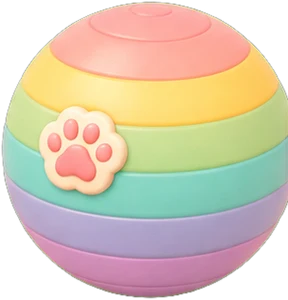
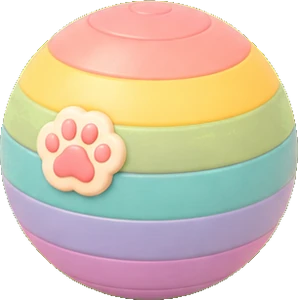
溜滑梯、帳篷小屋、彩虹大球、獨角獸、垃圾堆重新去背（不再被切到）
Claude-Session: https://claude.ai/code/session_012PDdvi2k8upU5bkQdz1Zi2

diff --git a/index.html b/index.html
@@ -3331,6 +3331,8 @@ const ITEMS={
   cushion:{name:'軟墊',emo:'🟣',kind:'toy',price:80},
 };
 const TREAT_MAX=3,TOY_MAX=20;
+// v2.87：重新去背的圖（原本被切到），加版本號讓手機重抓
+setTimeout(()=>['slide','teepee','rainbowball','unicorn','trash'].forEach(k=>{if(ITEMS[k]&&!ITEMS[k].img)ITEMS[k].img=`assets/item_${k}.webp?v=2`}),0);
 
 // ---------- v1.48 新玩具 ----------
 Object.assign(ITEMS,{
@@ -6578,7 +6580,7 @@ function announceLetters(){if(!DB.me)return;let seen=[];try{seen=JSON.parse(loca
     sfx('gift');$('#lgopen').onclick=()=>openLetter(nw[0].id,()=>$('#bell').click())};
   setTimeout(go,1800)}
 // ================= 自動更新：發現新版本就重新載入 =================
-const APP_VER='v2.86';
+const APP_VER='v2.87';
 function checkUpdate(){
   if(!/^https?:/.test(location.protocol)||!API_URL)return;
   if(!$('#modal').classList.contains('hidden'))return; // 正在填表單時不打斷

diff --git a/CLAUDE.md b/CLAUDE.md
@@ -31,8 +31,9 @@
 - commit 訊息結尾加 Co-Authored-By 與 Claude-Session 行；不要在 commit / PR 寫模型名稱。
 
 ## 目前狀態（2026-11）
-- 前端 v2.86、後端 v72（都已上線，2026-11-25）。
-- v2.86：盲盒店預覽圖沒載到時自動重抓（`imgRetry`，最多 2 次，還不行就藏起來不顯示破圖）。陽光小鎮圖檔本身是好的。另外有 7 個玩具圖檔本身被切到（地瓜乾、寵物布丁、貓掌沙發、溜滑梯、帳篷小屋、彩虹大球、獨角獸搖搖馬），等島主給原圖重新去背。
+- 前端 v2.87、後端 v72（都已上線，2026-11-25）。
+- v2.87：溜滑梯、帳篷小屋、彩虹大球、獨角獸搖搖馬、垃圾堆從島主給的原圖重新去背（`?v=2` 讓手機重抓）。地瓜乾、寵物布丁、貓掌沙發還缺原圖。聖誕樹是限定玩具（卡包／毛二街補貨才有），不在商店。
+- v2.86：盲盒店預覽圖沒載到時自動重抓（`imgRetry`，最多 2 次，還不行就藏起來不顯示破圖）。陽光小鎮圖檔本身是好的。（被切到的玩具圖見 v2.87）
 - v2.85：毛二街賣背包東西改成先在畫面上賣好（扣背包、加金幣、臨時上架），shopSell 在背後送；真的失敗才退回（網路太慢不退）。配件、展示櫃的賣法沒改。
 - v2.84：二樓玩具（搬、擺、翻面、收回、層板上放／收）也記 pending（`toyPend(hid+":2")`，`keepToys` 依 key 處理 toys／toys2），同步回來的舊資料不會把畫面蓋回去（島主回報「換玩具會跳回前一個版本」）。
 - v2.83：佈告欄便條 3 張以下排一排、正方形（`.board.one`），不會被壓扁（寬扁的佈告欄像 circus 最明顯）。二樓「玩具到上限」是同步延遲，島主說已經好了。
